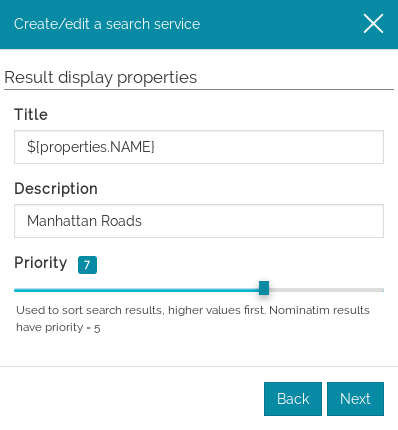
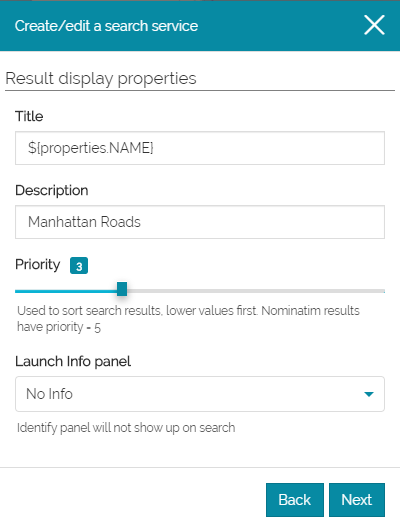
Adding user guide documentation for custom search services changes
* launch info panel docs changes

diff --git a/web/client/plugins/Search.jsx b/web/client/plugins/Search.jsx
@@ -178,6 +178,7 @@ const ToggleButton = require('./searchbar/ToggleButton');
  * @prop {string} cfg.searchOptions.services[].launchInfoPanel this is used to trigger get feature requests once a record is selected after a search.
  * it has the following values:
  * - undefined | not configured, it does not perform the GFI request
+ * Note that, in the following cases, the point used for GFI request is a point on surface of the geometry of the selected record
  * - "single_layer", it performs the GFI request for one layer only with only that record as a result, info_format is forced to be application/json
  * - "all_layers", it performs the GFI for all layers, as a normal GFI triggered by clicking on the map
  */

diff --git a/web/client/components/mapcontrols/searchservicesconfig/ResultsProps.jsx b/web/client/components/mapcontrols/searchservicesconfig/ResultsProps.jsx
@@ -83,7 +83,9 @@ class ResultsProps extends React.Component {
                         <Message msgId="search.s_priority" />
                         <Label key="priority-label" className="slider-label">{parseInt(service.priority || 1, 10)}</Label>
                     </ControlLabel>
-                    <Slider key="priority" start={[service.priority || 1]}
+                    <Slider key="priority"
+                        start={[service.priority || 1]}
+                        step={1}
                         range={{min: 1, max: 10}}
                         onSlide={this.updatePriority}
                         />

diff --git a/docs/user-guide/menu-bar.md b/docs/user-guide/menu-bar.md
@@ -85,7 +85,18 @@ The following example shows the steps required to set up a custom service:
 
     - **Description** is displayed to the bottom of each results row. We use *Manhattan Roads* to point out the source layer name but feel free to change it. You can use the same property placeholder syntax here.
 
-    - **Priority** is a weight assigned to the custom results. It is used to sort all the search results so higher values determine higher positions in the results list. The default [OpenStreetMap Nominatim search engine](https://nominatim.openstreetmap.org/) result has priority equals to 5, so to see our custom results in the first positions we should set a value greater than 5 for this field. We use 6.
+    - **Priority** is a weight assigned to the custom results. It is used to sort all the search results so lower values determine higher positions in the results list (top). The default [OpenStreetMap Nominatim search engine](https://nominatim.openstreetmap.org/) result has priority equals to 5, so to see our custom results in the first positions we should set a value lower than 5 for this field. We use 3.
+
+    - **Launch Info Panel** is a flag that can be used to trigger GetFeatureInfo requests when selecting a record after a search. The point for the GFI request is taken from the selected record's geometry.
+    It has three values as shown here:
+    <img src="../img/launch-info-panel.jpg" style="max-height:500px;" />
+     - "No info" means that no GFI request will be triggered and it is the default value. 
+     
+     Note that, in the following cases, the point used for GFI request is a point on surface of the geometry of the selected record
+     
+     - "Search Layer" means that the GFI will filter results to the record selected and to its layer. It will also force the info_format to "application/json" (PROPERTIES).
+     - "All Layers" means that there will be no filtering as it happens when you click on map.
+
 
 * Click on the **Next** button to open the *Optional props* form
 
@@ -114,6 +125,24 @@ The **Override default services** option of the **Create/edit search service** p
 Since the option is enabled no results from the default service are shown:
 
 <img src="../img/override-default-service-results.jpg" style="max-height:500px;" />
+
+
+Testing Launch Info panel options
+-----------
+You can follow the previous procedure and use "Search Layer" as launch info panel value.
+
+You can see that when you click on the first result
+<img src="../img/custom-search-results-click-records.jpg" style="max-height:500px;" />
+
+The result will be something like:
+
+<img src="../img/custom-search-results-search-layer.jpg" style="max-height:500px;" />
+
+If "All Layers" option is used then the results would be something like this:
+
+<img src="../img/custom-search-results-all-layers.jpg" style="max-height:500px;" />
+
+Since other layers are on the map then the navigation arrows is visible in the top-right corner of the FeatureInfo panel
 
 Burger Menu
 -----------
